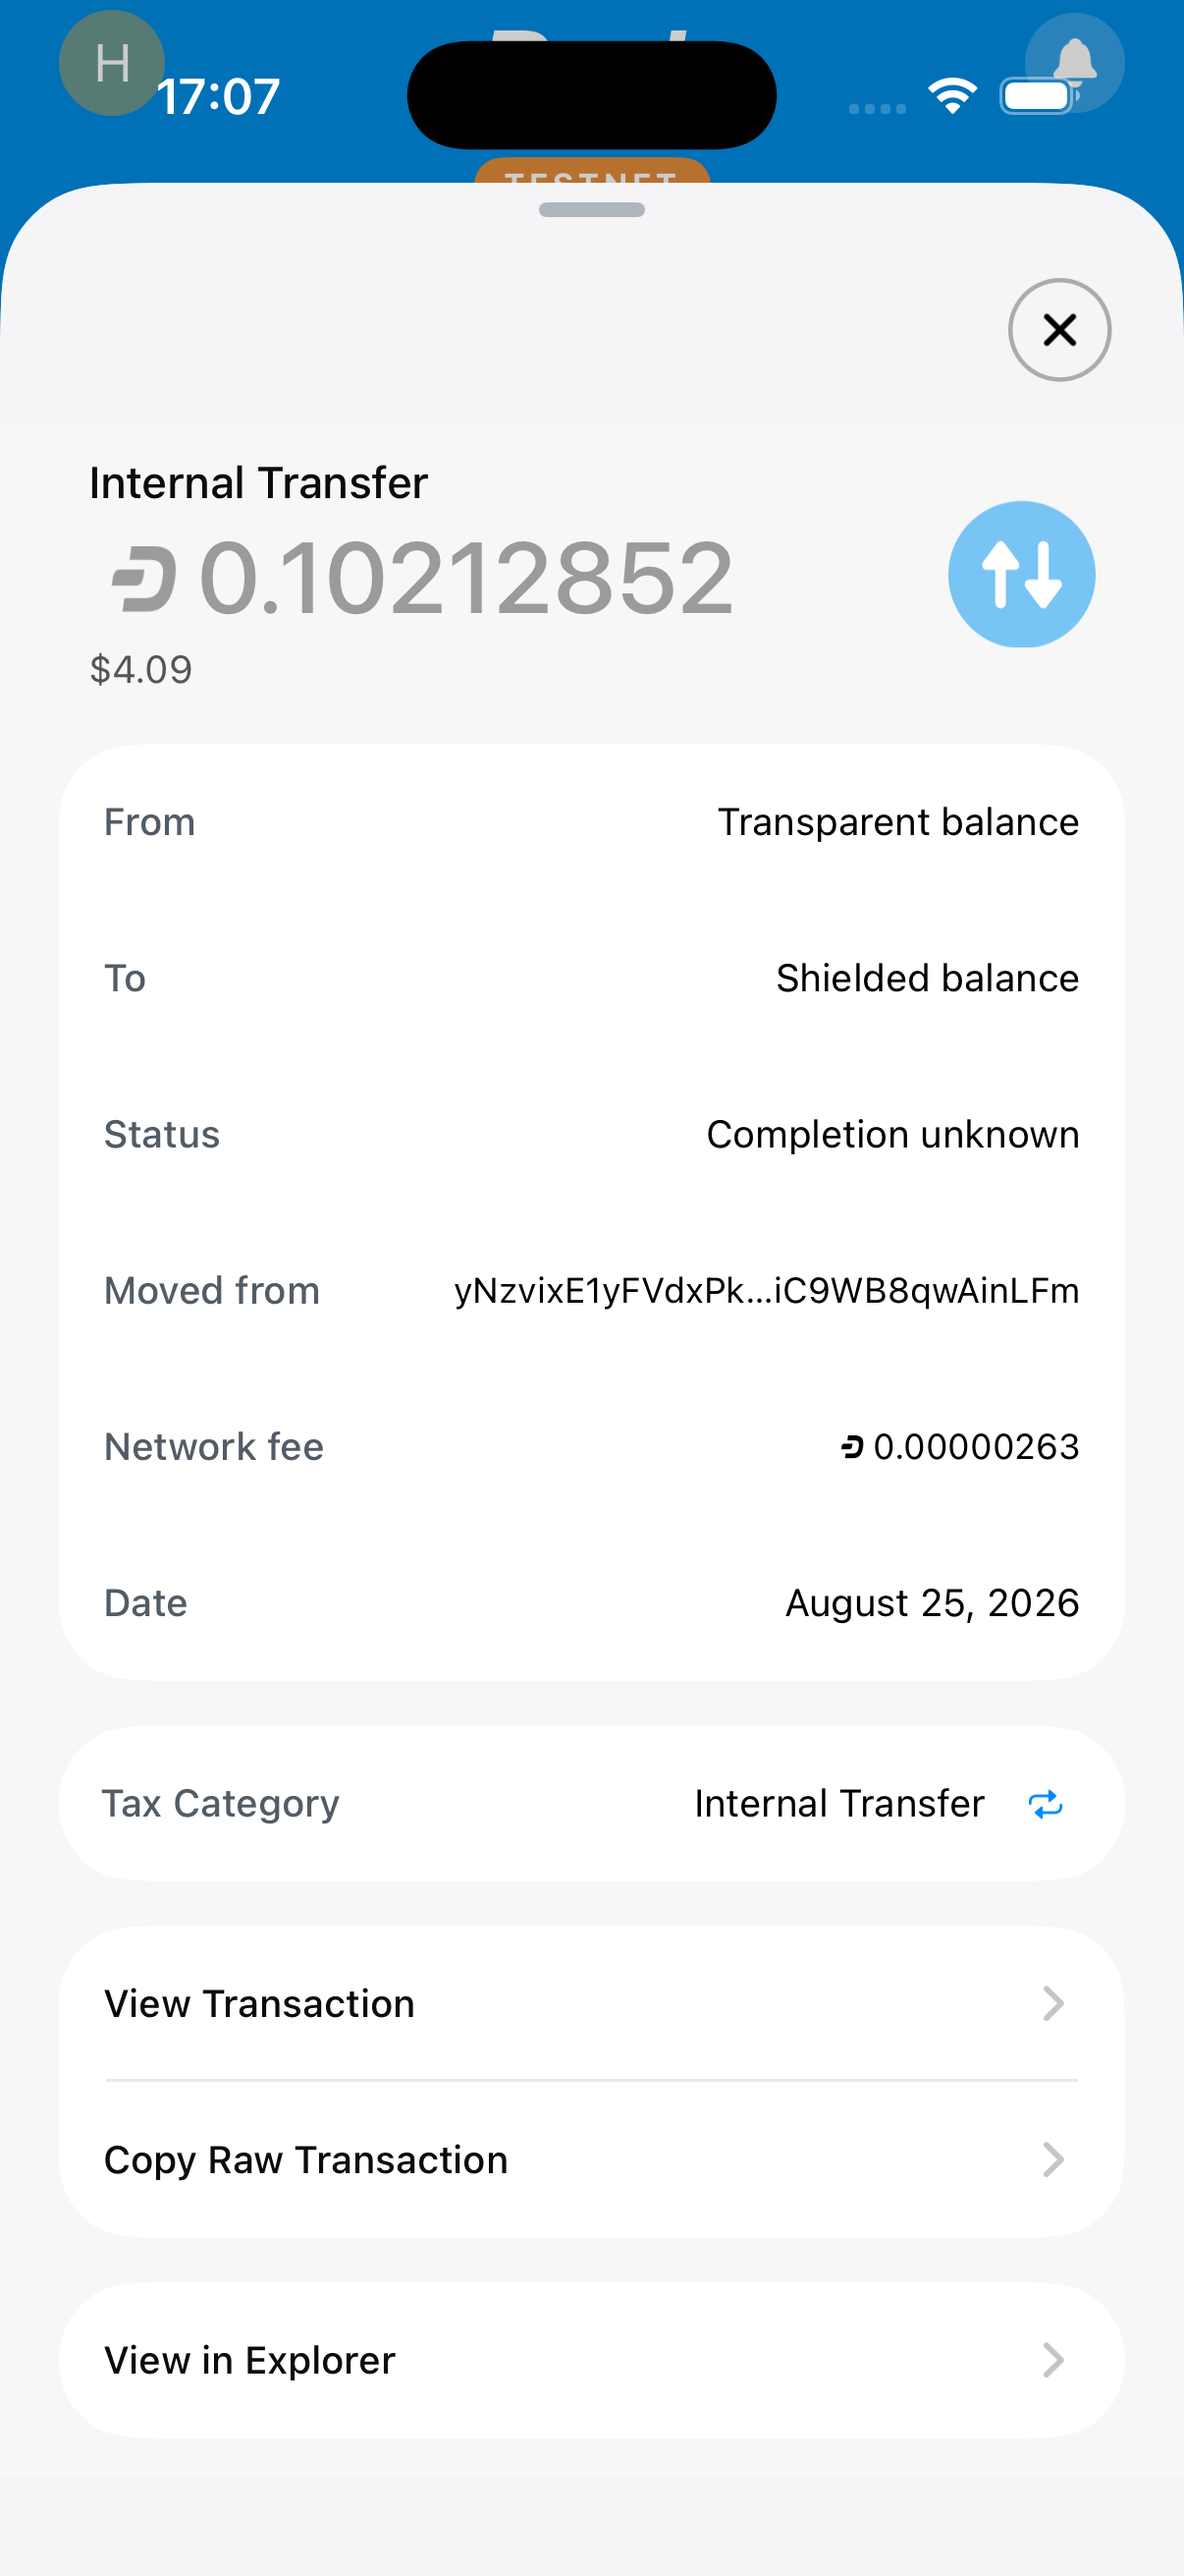
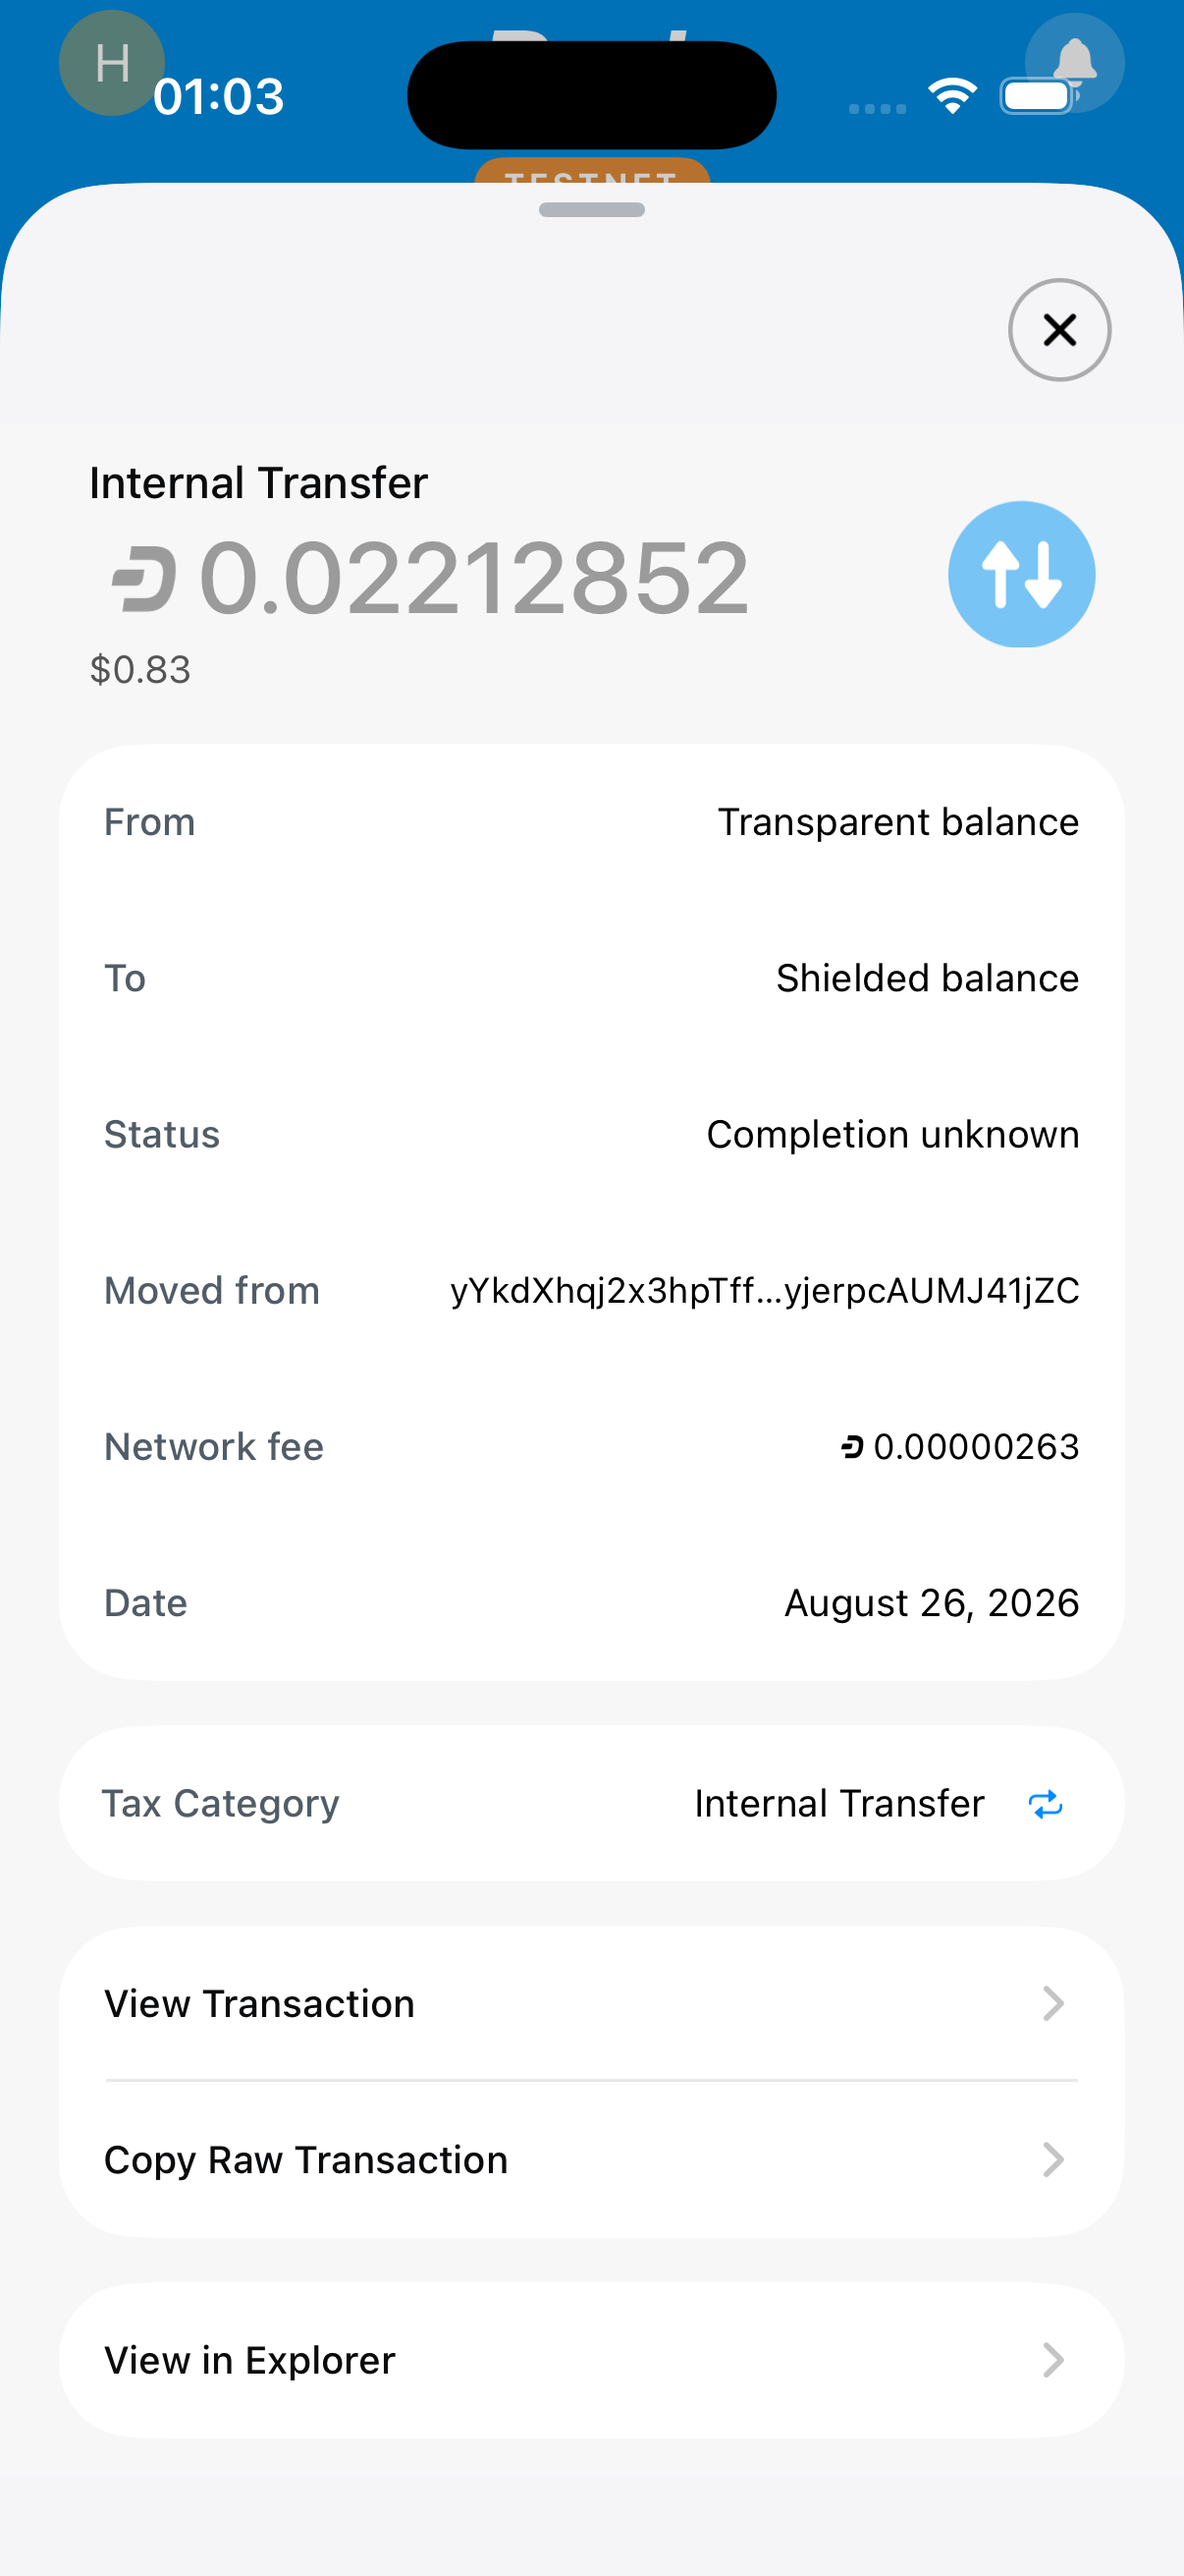
docs: refresh PR 1073 visual evidence

diff --git a/README.md b/README.md
@@ -8,7 +8,7 @@ Dash Wallet bottom-sheet foundation migration to `DashUIKit.BottomSheet`.
 | State | Exact revision | Simulator |
 | --- | --- | --- |
 | Before | `be25f358d9f606103d4da956c1310d756d436070` | DashUIKit PR1 Before be25f358d (`3DD208A7-27A7-484B-B5A1-E71DCFE88EA3`) |
-| After | `da64754531a36be79756f03140380be540056459` | DashUIKit PR1 After da6475453 (`9462A942-59F2-4962-AF3F-EE911A9A05D9`) |
+| After | `ab566189742eb386516e9fc4c2d9e940d577a749` | DashUIKit PR1 After da6475453 (`9462A942-59F2-4962-AF3F-EE911A9A05D9`) |
 
 Both simulators were cloned while shut down from the same configured
 `PR 1067 After a2b9f1f` fixture
@@ -22,10 +22,8 @@ are unedited `simctl io screenshot` PNGs from an iPhone 17 Pro on iOS 26.5 at
 
 | Surface | Before SHA-256 | After SHA-256 |
 | --- | --- | --- |
[6 lines of base64/hex data omitted]
 
 ## Transaction filter
 
@@ -38,15 +36,3 @@ are unedited `simctl io screenshot` PNGs from an iPhone 17 Pro on iOS 26.5 at
 | Before — exact base | After — full head |
 | --- | --- |
 | ![Before transaction detail](comparison/before/transaction-detail.png) | ![After transaction detail](comparison/after/transaction-detail.png) |
-
-## Marketplace name detail
-
-| Before — exact base | After — full head |
-| --- | --- |
-| ![Before marketplace name detail](comparison/before/marketplace-name-detail.png) | ![After marketplace name detail](comparison/after/marketplace-name-detail.png) |
-
-## Marketplace set price
-
-| Before — exact base | After — full head |
-| --- | --- |
-| ![Before marketplace set price](comparison/before/marketplace-set-price.png) | ![After marketplace set price](comparison/after/marketplace-set-price.png) |
